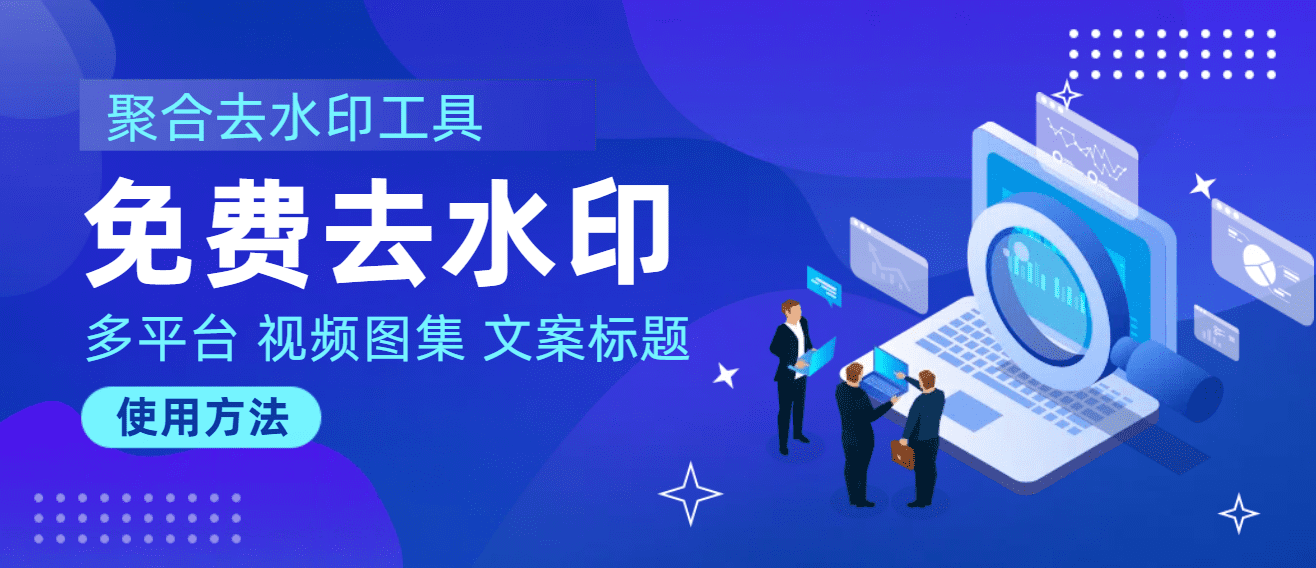
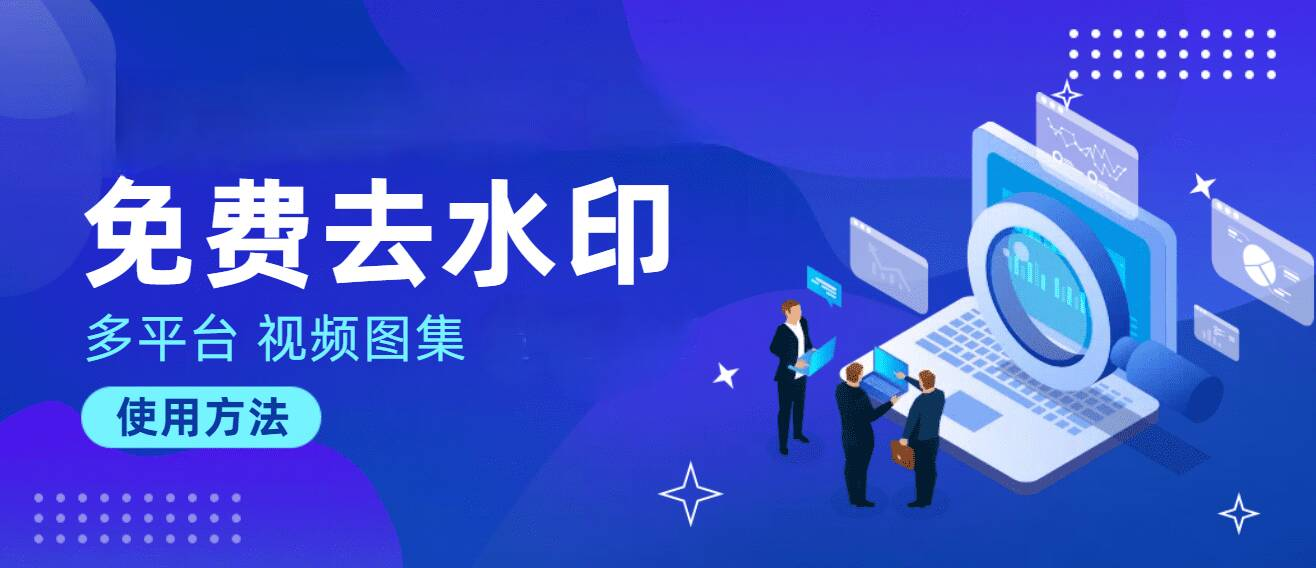
更新UI

diff --git a/pages/index.vue b/pages/index.vue
@@ -1,17 +1,6 @@
 <template>
-	<!-- 
-	作者：技术宅妞、哆哆、希速云
-	QQ：522605223 
-	-->
 	<view class="page">
-		<TabarTop img="/static/img/logotxt.png"></TabarTop>
-		<view class="guide-main" v-if="adtips">
-		    <view class="text"> 点击添加到我的小程序，下次访问更便捷 </view>
-		    <view class="close">
-				<u-icon color="#fff" name="close-circle-fill" @click="adtips=false"></u-icon>
-		        <!-- <uni-icons bind:__l="__l" uI="547341d0-1" uP="{{c}}" wx:if="{{c}}"></uni-icons> -->
-		    </view>
-		</view>
+		<TabarTop img="/static/img/qsytop.png"></TabarTop>
 		<u--image src="/static/img/banner.png" @click="toPage('qsy')" width="100%" height="auto" radius="15"
 			mode="widthFix"></u--image>
 		<u-gap :height="15" v-if="!$u.test.isEmpty(notice)" bgColor="#f7f8fa"></u-gap>
@@ -27,26 +16,12 @@
 					<u--image src="/static/img/qushuiyin.png" width="36" height="36" mode="widthFix"></u--image>
 				</view>
 			</view>
-			<view class="mitem" @click="toPage('tools')">
-				<text class="mtitle">工具箱</text>
-				<view class="mtips">发圈防止折叠</view>
-				<view class="micon">
-					<u--image src="/static/img/md5.png" width="36" height="36" mode="widthFix"></u--image>
-				</view>
-			</view>
 
 			<view class="mitem" @click="toPage('lq')">
 				<text class="mtitle">领积分</text>
 				<view class="mtips">每日签到领取</view>
 				<view class="micon">
 					<u--image src="/static/img/jifen.png" width="36" height="36" mode="widthFix"></u--image>
-				</view>
-			</view>
-			<view class="mitem" @click="toPage('yq')">
-				<text class="mtitle">爱分享</text>
-				<view class="mtips">分享获取积分</view>
-				<view class="micon">
-					<u--image src="/static/img/fenxiang.png" width="36" height="36" mode="widthFix"></u--image>
 				</view>
 			</view>
 
@@ -57,6 +32,7 @@
 					<u--image src="/static/img/help.png" width="36" height="36" mode="widthFix"></u--image>
 				</view>
 			</view>
+			<!--
 			<u-button class="mitem" open-type="contact" :customStyle="{'height':'80px'}">
 				<text class="mtitle">找客服</text>
 				<view class="mtips">快来找我聊聊</view>
@@ -64,7 +40,7 @@
 					<u--image src="/static/img/kefu.png" width="36" height="36" mode="widthFix"></u--image>
 				</view>
 			</u-button>
-			<!-- <view class="mitem" @click="toPage('gzh')">
+			 <view class="mitem" @click="toPage('gzh')">
 				<text class="mtitle">公众号</text>
 				<view class="mtips">关注公众号吧</view>
 				<view class="micon">

diff --git a/pages/my.vue b/pages/my.vue
@@ -1,10 +1,6 @@
 <template>
-	<!--
-	作者：技术宅妞、哆哆、希速云
-	QQ：522605223 
-	-->
 	<view class="page">
-		<TabarTop img="/static/img/logotxt.png" page="2" gap="20">
+		<TabarTop img="/static/img/qsytop.png" page="2" gap="20">
 			<view class="topinfo">
 				<u-avatar size="50" :src="randomStr(headimg)" shape="circle"></u-avatar>
 				<view class="name">
@@ -85,12 +81,6 @@
 			<view class="mitem" @click="toPage('yq')">
 				<u-icon size="25" color="#FF5733" name="plus-people-fill"></u-icon>
 				<text class="mtxt">邀请记录</text>
-				<u-icon color="#97989c" name="arrow-right"></u-icon>
-			</view>
-			<view class="mitem" @click="toPage('qun')">
-				<u-icon size="25" color="#FF5733" name="qq-fill"></u-icon>
-				<text class="mtxt">联系客服</text>
-				<text class="tips">微信群/Q群</text>
 				<u-icon color="#97989c" name="arrow-right"></u-icon>
 			</view>
 		</view>

diff --git a/admin/pages/aindex.vue b/admin/pages/aindex.vue
@@ -1,6 +1,6 @@
 <template>
 	<view class="page">
-		<TabarTop img="/static/img/logotxt.png" page="2" gap="20">
+		<TabarTop img="/static/img/qsytop.png" page="2" gap="20">
 			<view class="topinfo">
 				<u-avatar size="50" :src="randomStr(headimg)" shape="circle"></u-avatar>
 				<view class="name">
@@ -56,11 +56,6 @@
 				<u-icon size="25" color="#FF5733" name="star-fill"></u-icon>
 				<text class="mtxt">友情管理</text>
 				<text class="tips" v-if="tjinfo.link>0">{{tjinfo.link}}个</text>
-				<u-icon color="#97989c" name="arrow-right"></u-icon>
-			</view>
-			<view class="mitem" @click="toPage('wen')">
-				<u-icon size="25" color="#FF5733" name="star-fill"></u-icon>
-				<text class="mtxt">文案工具</text>
 				<u-icon color="#97989c" name="arrow-right"></u-icon>
 			</view>
 			<view class="mitem" @click="toPage('config')">
@@ -249,9 +244,6 @@
 						break;
 					case "adomin":
 						this.$u.route("admin/pages/adomin")
-						break;
-					case "wen":
-						this.$u.route("admin/pages/wtools")
 						break;
 					case "config":
 						this.$u.route("admin/pages/config")

diff --git a/pages/qsy.vue b/pages/qsy.vue
@@ -10,7 +10,7 @@
 		<u-gap :height="20" bgColor="#f7f8fa"></u-gap>
 		<u-notice-bar :text="notice" speed="50" @click="noticeshow=true"></u-notice-bar>
 		<view class="tips">
-			<text class="ttxt">支持平台：某音、某手、某书、某瓜等</text>
+			<text class="ttxt">支持平台：某音、某手、某书等</text>
 			<u--text @click="$u.route({type: 'to',url: 'view/pages/help'})" type="warning" bold align="right" size="14"
 				text="常见问题"></u--text>
 				<u-icon name="arrow-right" color="#f9ae3d"></u-icon>
@@ -37,8 +37,8 @@
 					去水印说明
 				</view>
 				<view class="qcont">
-					聚合去水印工具仅提供技术服务的中立工具,提供的去水印功能仅帮助用户提取视频自行学习、观看、降低视频流量障碍,提升观赏体验。<br />
-					请用户注意合法使用,若用户泛滥该功能实施侵权行为,用户应自行承担由此产生的法律责任.聚合去水印工具倡导与用户共同营造风清正气的网络环境！
+					本去水印工具仅提供技术服务的中立工具，提供的去水印功能仅帮助用户提取视频自行学习、观看、降低视频流量障碍，提升观赏体验。<br />
+					请用户注意合法使用，若用户泛滥该功能实施侵权行为，用户应自行承担由此产生的法律责任，与本工具无关！
 				</view>
 				<view class="qbtn" @click="noticeshow=false">
 					确定
@@ -71,7 +71,7 @@
 			return {
 				noticeshow: false,
 				link: "",
-				notice: "聚合去水印工具仅提供技术服务的中立工具,提供的去水印功能仅帮助用户提取视频自行学习、观看、降低视频流量障碍,提升观赏体验.请用户注意合法使用,若用户泛滥该功能实施侵权行为,用户应自行承担由此产生的法律责任.聚合去水印工具倡导与用户共同营造风清正气的网络环境!"
+				notice: "本工具仅提供学习测试使用，视频版权归平台及作者所有，本程序不存储任何内容。"
 			}
 		},
 		onLoad() {

diff --git a/image/pages/full-mark/full-mark.vue b/image/pages/full-mark/full-mark.vue
@@ -175,7 +175,7 @@
 		},
 		data() {
 			return {
-				watermark:"聚合去水印工具",
+				watermark:"Fine解析小助手",
 				images: [], // 存储图片的
 				currentImgeIndex: 0, // 当前图片 索引
 				currentImgeInfo: { // 当前图片 的宽高

diff --git a/view/pages/explain.vue b/view/pages/explain.vue
@@ -23,7 +23,7 @@
 			<text class="title2">第三步</text>
 			<view class="cont">
 				<view class="sitem">
-					<view class="stxt">打开聚合去水印工具小程序，在输入框输入链接或点击【粘贴内容】按钮，然后点击【免费去水印】按钮，如下图</view>
+					<view class="stxt">打开Fine解析小助手小程序，在输入框输入链接或点击【粘贴内容】按钮，然后点击【免费去水印】按钮，如下图</view>
 					<u--image src="/static/img/help/3.png" height="auto" radius="15" mode="widthFix"></u--image>
 				</view>
 			</view>

diff --git a/view/pages/jflist.vue b/view/pages/jflist.vue
@@ -38,7 +38,6 @@
 						<text v-if="item.type==3">解析扣减</text>
 						<text v-if="item.type==4">签到领取</text>
 						<text v-if="item.type==5">邀请领取</text>
-						<text v-if="item.type==6">文案扣减</text>
 						<view class="time">
 							{{item.addtime}}
 						</view>